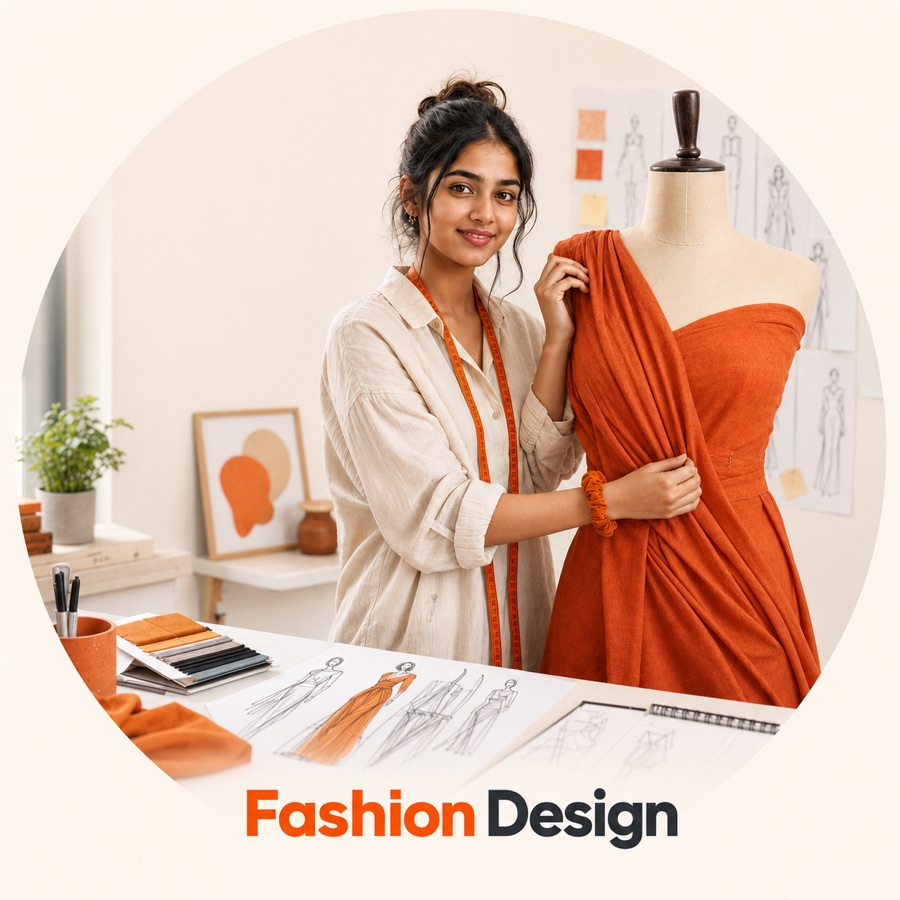
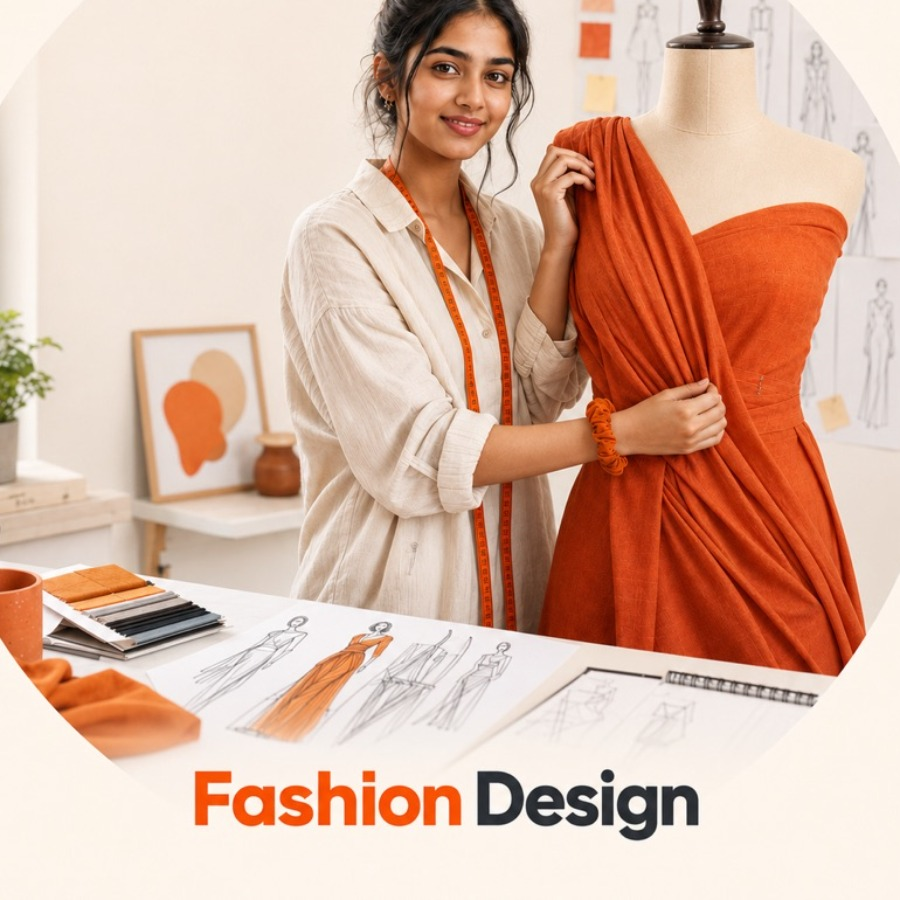
Re-crop hero discipline photos to remove circle edge gaps
Each source photo has a soft vignette/margin baked in near its
edges. The previous fix (a per-image CSS zoom factor, scaling from
center) couldn't win: zooming enough to crop the vignette on the
sides also pushed the caption text baked into the bottom of each
image out of the visible circle.

Re-cropped all five images offline with an off-center, bottom-
anchored square crop (trim from the top/sides only, keep the full
bottom edge) so the vignette is gone and the caption stays fully
visible. With clean source crops, the CSS zoom hack is no longer
needed — all five zoom values reset to 1.0.

diff --git a/src/data.js b/src/data.js
@@ -73,13 +73,13 @@ export const paperYears = [2025, 2024, 2023, 2022, 2021]
 export const heroExamNames = ['NID', 'UCEED', 'NIFT', 'NATA', 'CEED']
 
 // Rotating hero discipline illustrations (public/assets/hero/).
-// Each source image has its own circular composition with a soft margin;
-// zoom crops that margin so the artwork fills the hero disc edge to edge.
+// Each file is pre-cropped square with no residual vignette margin, so no
+// CSS zoom is needed — object-fit: cover fills the hero disc edge to edge.
 export const heroDisciplines = [
   { src: '/assets/hero/interior-design.jpg', label: 'Interior Design', zoom: 1.0 },
-  { src: '/assets/hero/fashion-design.jpg', label: 'Fashion Design', zoom: 1.04 },
+  { src: '/assets/hero/fashion-design.jpg', label: 'Fashion Design', zoom: 1.0 },
   { src: '/assets/hero/communication-design.jpg', label: 'Communication Design', zoom: 1.0 },
-  { src: '/assets/hero/industrial-design.jpg', label: 'Industrial Design', zoom: 1.06 },
+  { src: '/assets/hero/industrial-design.jpg', label: 'Industrial Design', zoom: 1.0 },
   { src: '/assets/hero/graphic-design.jpg', label: 'Graphic Design', zoom: 1.0 },
 ]
 
